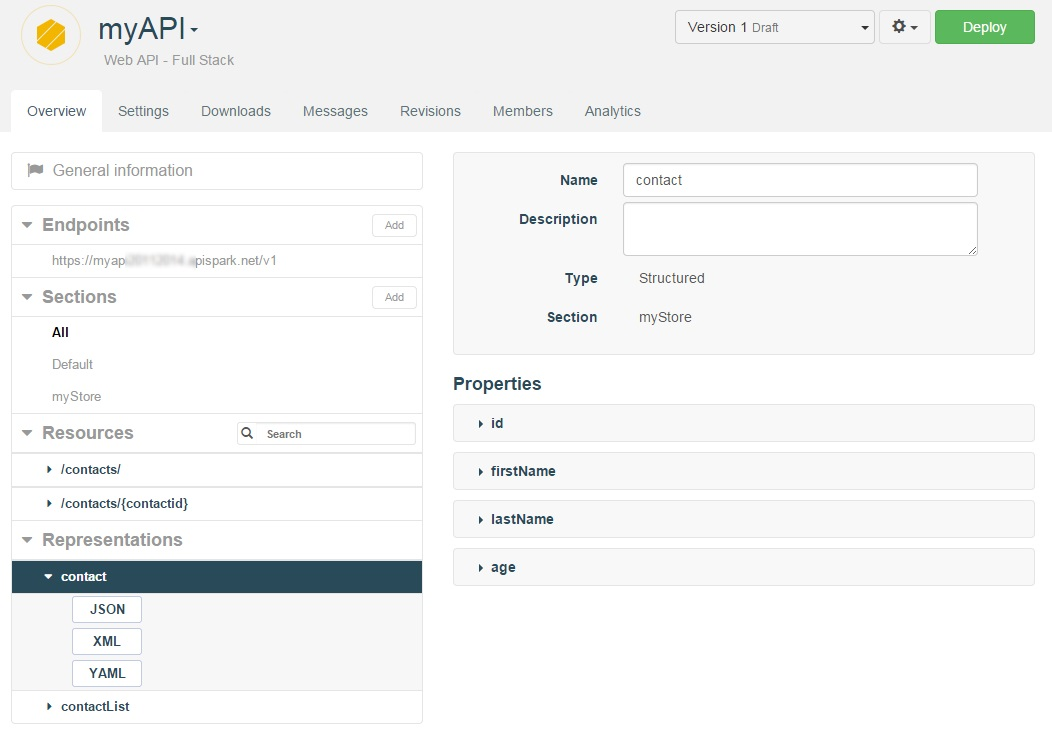
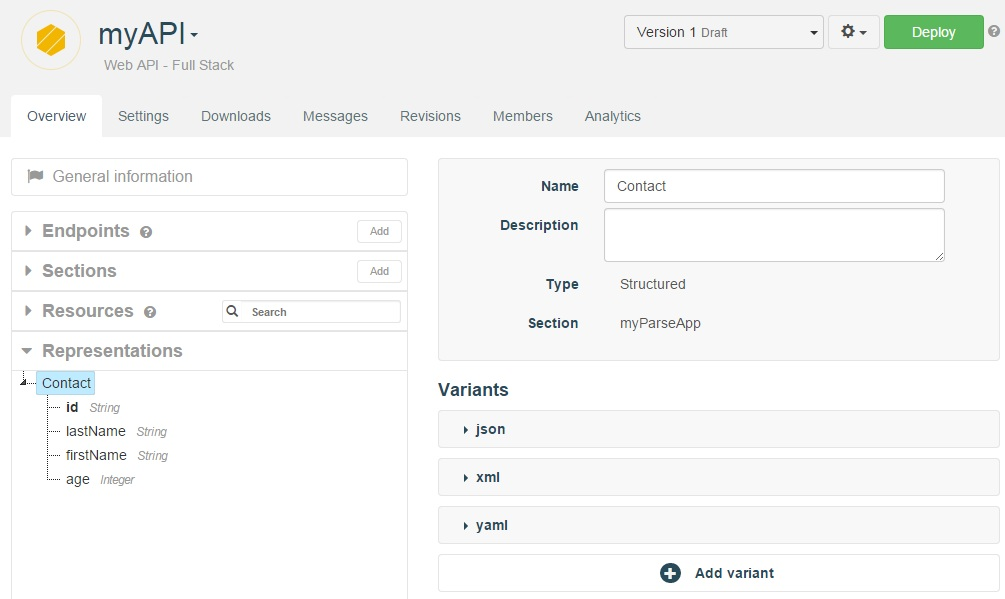
AS_Representations section review

diff --git a/modules/com.restlet/tech-doc/apispark/guide/03_create/02_edit/04_representations.md b/modules/com.restlet/tech-doc/apispark/guide/03_create/02_edit/04_representations.md
@@ -1,12 +1,10 @@
 
 A web API has a set of **Representations** that describe the API input and output data.
 
-A **Representation** has a **Name** and a **Description** (optional), and is composed of **Properties** which hold values.
+A **Representation** has a **Name** and a **Description** (optional), and is composed of **Properties** which hold values. There are *Raw* (without properties) and *Structured* representations.
 
-<!--
-An API e.g. `api/contacts/{id}` returns a `Contact` representation
+E.g. An API `/contacts/{id}` returns a `Contact` representation
 
-XXXXXXXXXXXXX
 ```json
 {
   "id" : "XXXid",
@@ -16,7 +14,14 @@ XXXXXXXXXXXXX
 }
 ```
 
--->
+It has different properties.
+
+- id *String*  
+- lastName *String*  
+- firstName *String*  
+- age *Integer*
+
+Properties can be *composite*, i.e. a property can contain other properties, e.g. a “contact” entity contains an “address” property which contains a “zip code” and “city” property.
 
 To edit a web API's **Representations**, navigate to the web API's **Overview**. The API's representations are listed in the **Representations** section in the left panel.
 
@@ -36,18 +41,22 @@ You can modify the following attributes for an existing Representation property.
 
 ### Name
 
-The property's name. You cannot edit the property's name of an API published version. To be able do edit it, you will need to revert to a draft version.
+The property's name.
+
+>**Note:** You cannot edit the property's name of an API published version. To be able do edit it, you will need to revert to a draft version.
 
 ### Hidden
 
-Select this checkbox so that the Representation properties are not included into client kits or when the API is invoked. You may want to include only part of your properties.
+Select this checkbox when the API is invoked or so that the Representation properties are not included into client kits. You may want to include only part of your properties.
 
 ### Sample value
 
-A sample value can be provided in this field. It will be suggested to the user when s/he adds a record.
+A sample value can be provided in this field. This value will be used to give you an idea of what your representation will look like in different formats (JSON, XML or YAML). From the API **Overview** tab, click on the Representation chosen and select the Variant you need.
 
 
 ## Representation formatting
+
+You may want to customize your API in order to choose whether output representations will contain properties with null values or not.
 
 From the **Settings** tab, you can determine whether you want your API to return all values, all values except null values or all values except null and empty values.
 
@@ -70,7 +79,7 @@ This setting can be changed from the **General** section of the API **Settings**
 
 ![Change collections formatting](images/change-collection-formatting.jpg "Change collections formatting")
 
->**Note:** You will need to synchronize each store imported and then redeploy your API in order for your changes to be taken into account.
+>**Note:** You will need to [synchronize](/technical-resources/apispark/guide/create/overview#synchronize "synchronize") each store imported and then redeploy your API in order for your changes to be taken into account.
 
 # Variants
 

diff --git a/modules/com.restlet/tech-doc/apispark/guide/03_create/01_overview.md b/modules/com.restlet/tech-doc/apispark/guide/03_create/01_overview.md
@@ -92,7 +92,7 @@ Select an import from the left panel of the API's **Settings** tab, and click on
 If you update your Data Store, you can update the API's corresponding resources and representations by clicking on the **Update** button in the same window.
 -->
 
-### Synchronize your Entity Store with your API
+### <a name="synchronize"></a>Synchronize your Entity Store with your API
 
 If you deploy an Entity Store that is imported by a web API, you can update the web API's **Imports** to switch to the new deployed version of the Entity Store.
 
